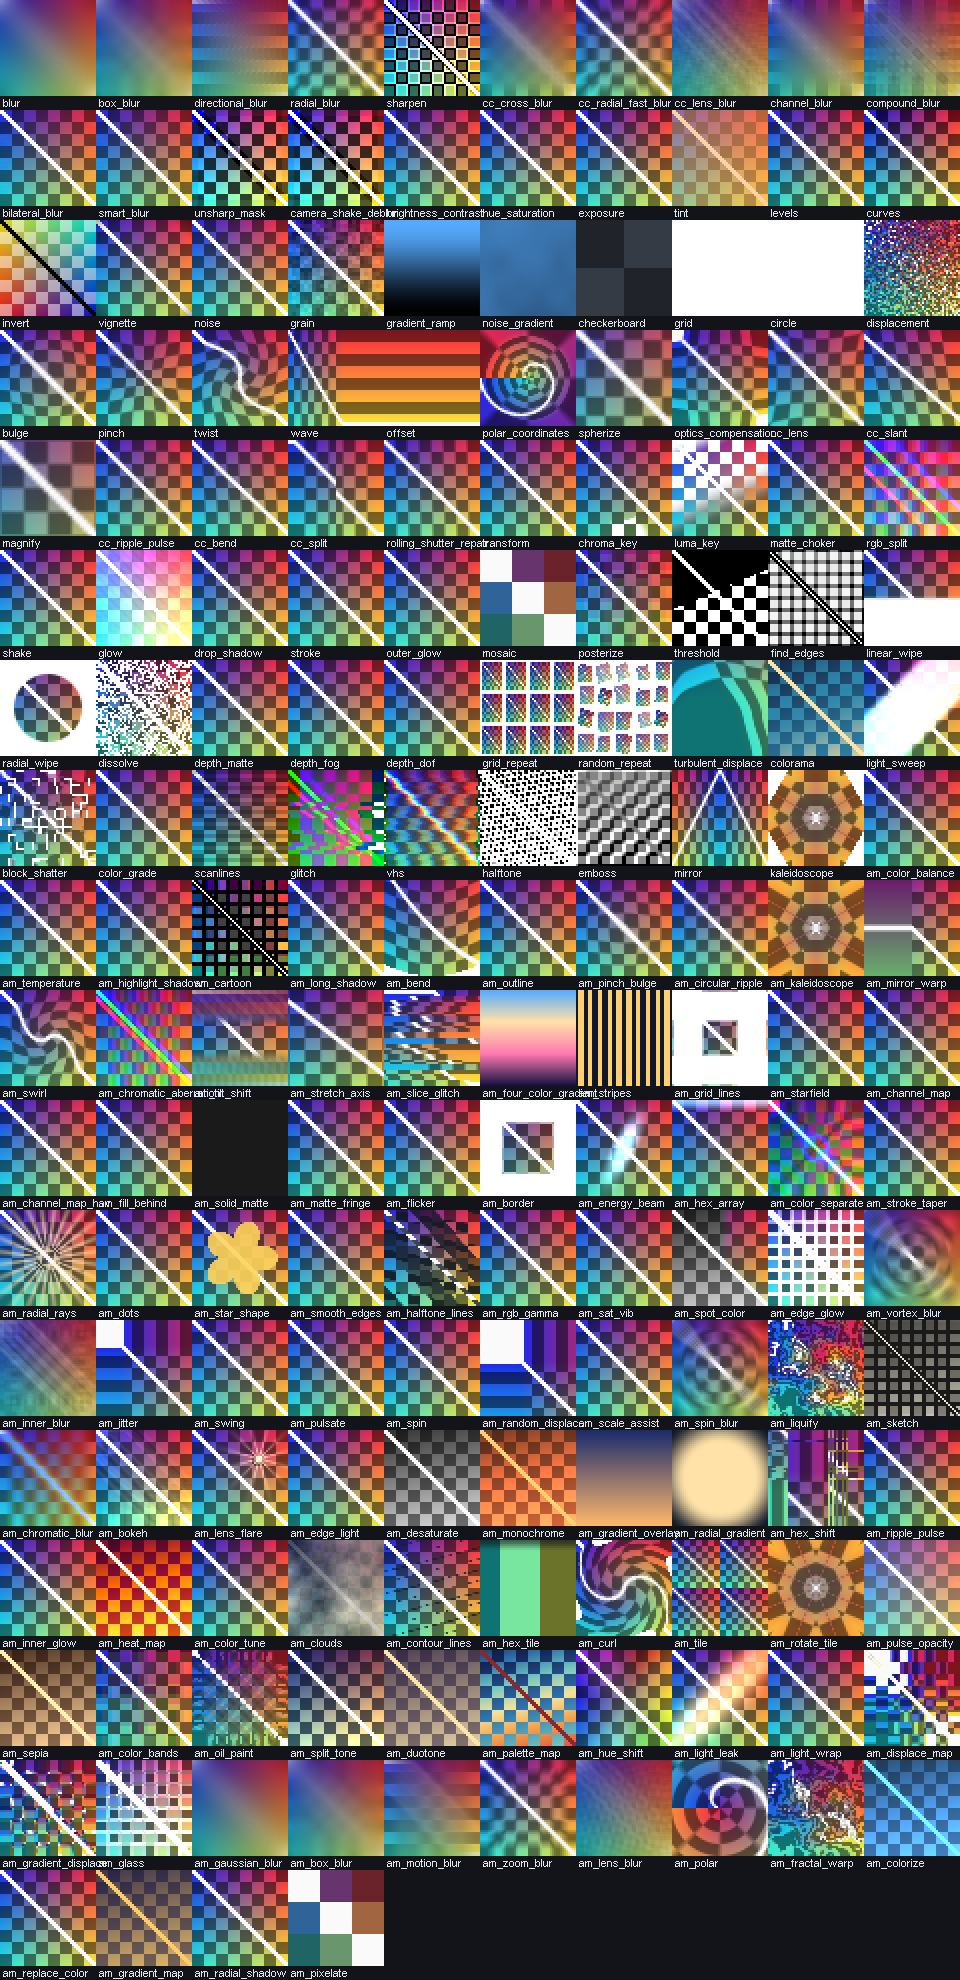
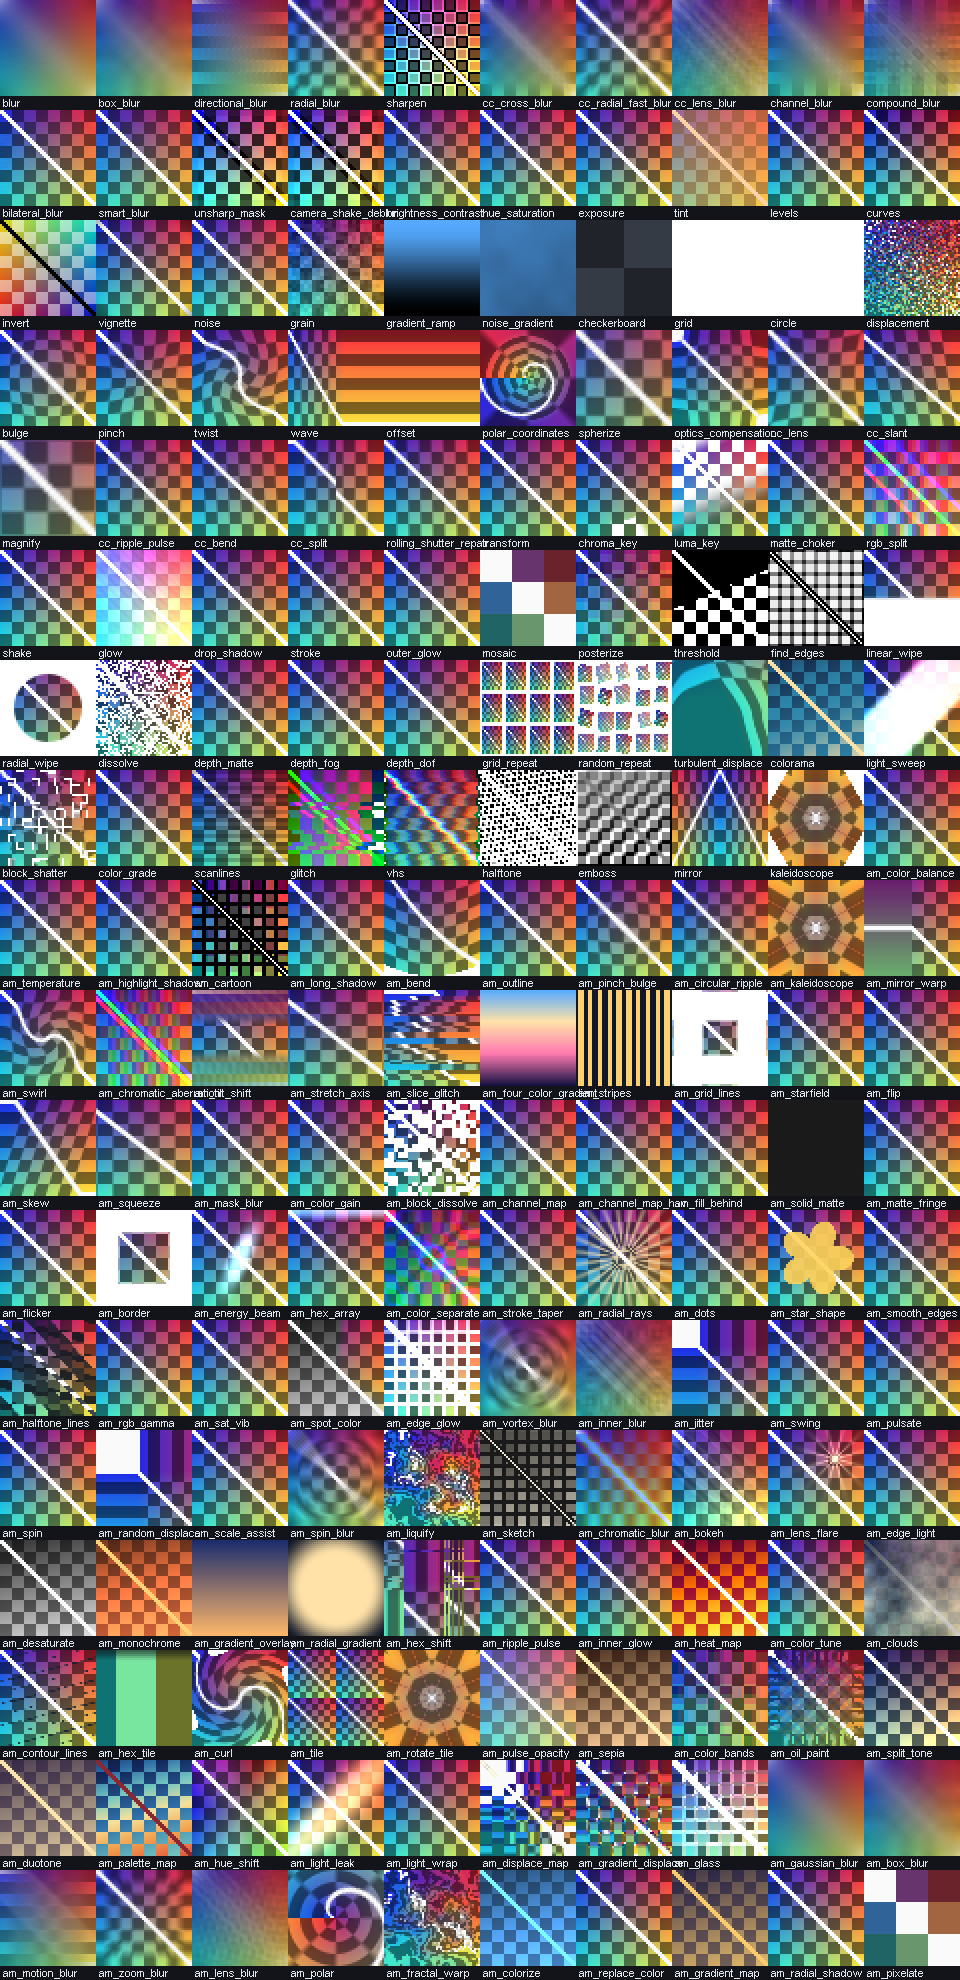
feat(0.47): past one hundred reference effects
- 翻转 (angle-driven flip with edge-on fade), 倾斜 (shear), 挤压 (axis squeeze) under AM · 变换.
- 遮罩模糊 (blur restricted to alpha edges) under AM · 模糊.
- 色调 (per-channel gain + lift) under AM · 调色.
- 块状溶解 (block dissolve; progress 1 = identity via neutralWhen) under AM · 透明度.
- 101 reference-compatible effects; the neutrality test probe now respects slider ranges so
  identities at the maximum (dissolve progress 1) are covered.
- 321 tests green. Release bbsae-0.47.jar
  (SHA-256 8A5DCE0F1025AB63D832CACA848CEAE2ECF3178FB08994B3C2A78C640DE2F993).

diff --git a/src/main/java/dev/bbsae/comp/AmEffectLibrary.java b/src/main/java/dev/bbsae/comp/AmEffectLibrary.java
@@ -495,6 +495,140 @@ public final class AmEffectLibrary
             .p("alpha", "不透明度", 0F, 1F, 1F, 0.01F)
             .p("seed", "随机种子", 0F, 9999F, 0F, 1F));
 
+        add(new AmEffectDef("am_flip", "翻转", "AM · 变换", """
+            void main()
+            {
+                vec2 luv = layerUv(vUv);
+                float a = radians(u_angle);
+                float fade = abs(cos(a));
+                vec2 uv = luv;
+
+                if (u_axis < 0.5)
+                {
+                    uv.x = 0.5 + (luv.x - 0.5) / max(fade, 0.0001);
+
+                    if (cos(a) < 0.0)
+                    {
+                        uv.x = 1.0 - uv.x;
+                    }
+                }
+                else
+                {
+                    uv.y = 0.5 + (luv.y - 0.5) / max(fade, 0.0001);
+
+                    if (cos(a) < 0.0)
+                    {
+                        uv.y = 1.0 - uv.y;
+                    }
+                }
+
+                vec2 inside = step(vec2(0.0), uv) * step(uv, vec2(1.0));
+                vec4 c = sampleLayer(clamp(uv, 0.0, 1.0));
+                fragColor = vec4(c.rgb, c.a * inside.x * inside.y);
+            }
+            """, 0.5F, "angle")
+            .p("angle", "角度", 0F, 360F, 0F, 1F)
+            .p("axis", "轴（0 X / 1 Y）", 0F, 1F, 0F, 1F));
+
+        add(new AmEffectDef("am_skew", "倾斜", "AM · 变形", """
+            void main()
+            {
+                vec2 luv = layerUv(vUv);
+                vec2 uv = luv;
+                uv.x += u_amount * (luv.y - u_center_y);
+                uv.y += u_vertical * (luv.x - u_center_x);
+                fragColor = sampleLayer(uv);
+            }
+            """, 0.5F, "amount")
+            .p("amount", "水平倾斜", -2F, 2F, 0.3F, 0.01F)
+            .p("vertical", "垂直倾斜", -2F, 2F, 0F, 0.01F)
+            .p("center_x", "中心 X", 0F, 1F, 0.5F, 0.01F)
+            .p("center_y", "中心 Y", 0F, 1F, 0.5F, 0.01F));
+
+        add(new AmEffectDef("am_squeeze", "挤压", "AM · 变形", """
+            void main()
+            {
+                vec2 luv = layerUv(vUv);
+                vec2 uv = luv;
+                float factor = max(1.0 + u_amount, 0.01);
+
+                if (u_axis < 0.5)
+                {
+                    uv.x = u_center_x + (luv.x - u_center_x) / factor;
+                }
+                else
+                {
+                    uv.y = u_center_y + (luv.y - u_center_y) / factor;
+                }
+
+                fragColor = sampleLayer(uv);
+            }
+            """, 0.5F, "amount")
+            .p("amount", "挤压量", -0.95F, 2F, 0.3F, 0.01F)
+            .p("axis", "轴（0 X / 1 Y）", 0F, 1F, 0F, 1F)
+            .p("center_x", "中心 X", 0F, 1F, 0.5F, 0.01F)
+            .p("center_y", "中心 Y", 0F, 1F, 0.5F, 0.01F));
+
+        add(new AmEffectDef("am_mask_blur", "遮罩模糊", "AM · 模糊", """
+            void main()
+            {
+                vec2 luv = layerUv(vUv);
+                vec4 c = sampleLayer(luv);
+                vec4 sum = vec4(0.0);
+
+                for (int i = 0; i < 16; i++)
+                {
+                    float a = float(i) * 0.3926991;
+                    float r = u_radius / max(LayerSize.x, 1.0);
+                    sum += sampleLayer(luv + vec2(cos(a), sin(a)) * r);
+                }
+
+                vec4 blurred = sum / 16.0;
+                float edge = clamp(4.0 * c.a * (1.0 - c.a), 0.0, 1.0);
+                fragColor = vec4(mix(c.rgb, blurred.rgb, edge * clamp(u_strength, 0.0, 1.0)), c.a);
+            }
+            """, 0F, "radius")
+            .p("radius", "半径（像素）", 0F, 60F, 6F, 0.5F)
+            .p("strength", "强度", 0F, 1F, 1F, 0.01F));
+
+        add(new AmEffectDef("am_color_gain", "色调", "AM · 调色", """
+            void main()
+            {
+                vec2 luv = layerUv(vUv);
+                vec4 c = sampleLayer(luv);
+                vec3 gained = c.rgb * vec3(max(u_gain_r, 0.0), max(u_gain_g, 0.0), max(u_gain_b, 0.0));
+                gained += vec3(u_lift);
+                fragColor = vec4(clamp(mix(c.rgb, gained, clamp(u_amount, 0.0, 1.0)), 0.0, 1.0), c.a);
+            }
+            """, 0F, null)
+            .neutralWhen((effect) ->
+                Math.abs(effect.valueF("gain_r", 1F) - 1F) <= 0.0001F
+                    && Math.abs(effect.valueF("gain_g", 1F) - 1F) <= 0.0001F
+                    && Math.abs(effect.valueF("gain_b", 1F) - 1F) <= 0.0001F
+                    && Math.abs(effect.valueF("lift", 0F)) <= 0.0001F)
+            .p("gain_r", "红增益", 0F, 3F, 1F, 0.01F)
+            .p("gain_g", "绿增益", 0F, 3F, 1F, 0.01F)
+            .p("gain_b", "蓝增益", 0F, 3F, 1F, 0.01F)
+            .p("lift", "提升", -0.5F, 0.5F, 0F, 0.01F)
+            .p("amount", "强度", 0F, 1F, 1F, 0.01F));
+
+        add(new AmEffectDef("am_block_dissolve", "块状溶解", "AM · 透明度", """
+            void main()
+            {
+                vec2 luv = layerUv(vUv);
+                vec4 c = sampleLayer(luv);
+                vec2 grid = vec2(max(u_blocks, 1.0));
+                vec2 cell = floor(luv * grid);
+                float rnd = hash(cell + u_seed);
+                float visible = rnd < clamp(u_progress, 0.0, 1.0) ? 1.0 : 0.0;
+                fragColor = vec4(c.rgb, c.a * visible);
+            }
+            """, 0F, null)
+            .neutralWhen((effect) -> effect.valueF("progress", 1F) >= 0.999F)
+            .p("progress", "进度", 0F, 1F, 0.5F, 0.01F)
+            .p("blocks", "方块数", 2F, 120F, 20F, 1F)
+            .p("seed", "随机种子", 0F, 9999F, 0F, 1F));
+
         add(new AmEffectDef("am_channel_map", "通道映射", "AM · 调色", """
             void main()
             {

diff --git a/src/test/java/dev/bbsae/comp/AmEffectLibraryTest.java b/src/test/java/dev/bbsae/comp/AmEffectLibraryTest.java
@@ -37,7 +37,7 @@ public class AmEffectLibraryTest
             assertTrue(definition.body.contains("fragColor"), "body writes no colour: " + definition.id);
         }
 
-        assertTrue(ids.size() >= 95, "the catalogue should have grown with the channel/composite batch");
+        assertTrue(ids.size() >= 101, "the catalogue should have crossed one hundred effects");
     }
 
     @Test
@@ -151,6 +151,12 @@ public class AmEffectLibraryTest
         assertNeutral("am_solid_matte", "amount", 0F);
         assertNeutral("am_matte_fringe", "width", 0F);
         assertNeutral("am_flicker", "amount", 0F);
+        assertNeutral("am_flip", "angle", 0F);
+        assertNeutral("am_skew", "amount", 0F);
+        assertNeutral("am_squeeze", "amount", 0F);
+        assertNeutral("am_mask_blur", "radius", 0F);
+        assertNeutral("am_color_gain", "gain_r", 1F);
+        assertNeutral("am_block_dissolve", "progress", 1F);
 
         CompEffect balance = CompEffectRegistry.create("am_color_balance", 1);
 
@@ -182,11 +188,27 @@ public class AmEffectLibraryTest
 
         assertTrue(AmEffectLibrary.isNeutral(effect), id + " must be an identity with " + key + " = 0");
 
-        /* Probe just past the identity: a value inside the parameter's allowed range that must
-         * change the image (0.5 is below the minimum size of the pixelate effect). */
-        effect.put(key, (double) (value + 1F));
+        /* Probe another value inside the parameter's allowed range that must change the image.
+         * Stepping up is preferred; identities at the maximum (a dissolve at progress 1) step down
+         * instead, and the probe never leaves the slider range. */
+        CompEffectRegistry.Definition definition = CompEffectRegistry.get(id);
+        float min = 0F;
+        float max = 1F;
+
+        for (CompEffectRegistry.Param param : definition.params)
+        {
+            if (param.key.equals(key))
+            {
+                min = param.min;
+                max = param.max;
+            }
+        }
+
+        float probe = value + 1F <= max ? value + 1F : Math.max(min, value - 0.5F);
+
+        effect.put(key, (double) probe);
 
         assertFalse(AmEffectLibrary.isNeutral(effect),
-            id + " must not be an identity with " + key + " = " + (value + 1F));
+            id + " must not be an identity with " + key + " = " + probe);
     }
 }

diff --git a/README.md b/README.md
@@ -110,15 +110,15 @@ export** without touching the `.dat` film format.
 
 ## Download / Install
 
-1. Download [`bbsae-0.46.jar`](https://github.com/zhongend/bbsae/releases/download/v0.46/bbsae-0.46.jar)
-   from the **v0.46** release (the asset is updated with each source push).
+1. Download [`bbsae-0.47.jar`](https://github.com/zhongend/bbsae/releases/download/v0.47/bbsae-0.47.jar)
+   from the **v0.47** release (the asset is updated with each source push).
 2. Install **Minecraft 1.20.1**, **Fabric Loader 0.16.14+**, **Fabric API 0.92.1+1.20.1** and
    **BBS FS 2.7-1.20.1**.
-3. Put `bbsae-0.46.jar` and the BBS FS jar into the game's `mods/` folder.
+3. Put `bbsae-0.47.jar` and the BBS FS jar into the game's `mods/` folder.
 4. Launch the game, open a film in BBS, select a replay, then use
    **Replay properties → Compositor → Open Film Compositor**.
 
[2 lines of base64/hex data omitted]
 
 ## Gallery
 
@@ -185,6 +185,17 @@ The compositor does not re-encode films or patch `.dat` files. BBS serializes a 
 `RegisterFrameOverlaysEvent` point. That means the same composition appears in BBS's preview and in
 its FFmpeg film export, and BBS keeps ownership of keyframes, undo, project storage and video
 encoding.
+
+## What's new in 0.47 — past one hundred reference effects
+
+- **翻转**, **倾斜**, **挤压** (`AM · 变换`): angle-driven flip, shear and axis squeeze.
+- **遮罩模糊** (`AM · 模糊`): blur restricted to alpha edges.
+- **色调** (`AM · 调色`): per-channel gain plus lift.
+- **块状溶解** (`AM · 透明度`): block-wise dissolve; progress 1 is the identity and is declared
+  through `neutralWhen`.
+- **101 reference-compatible effects**; the neutrality test probe now respects each slider's range
+  (identities at the maximum, like a dissolve at progress 1, step down instead of up).
+- 321 tests green.
 
 ## What's new in 0.46 — channel maps and matte composites
 

diff --git a/docs/EFFECT-LIBRARY-PLAN.zh.md b/docs/EFFECT-LIBRARY-PLAN.zh.md
@@ -45,7 +45,7 @@
 新增三层，效果不再需要写进 `EffectRenderer` 的巨型 switch：
 
 - `comp/AmEffectDef`：id、显示名、分类、参数表（float/color）、`main()` 片段、零点参数。
-- `comp/AmEffectLibrary`：95 个效果的定义（色彩平衡、色温、高光与阴影、卡通、长阴影、
+- `comp/AmEffectLibrary`：101 个效果的定义（色彩平衡、色温、高光与阴影、卡通、长阴影、
   弯曲、描边、收缩与膨胀、圆形波纹、万花筒、镜像、旋转扭曲、像素化、极坐标、分形扭曲、
   色彩化、替换颜色、渐变映射、径向阴影），参数名/范围/默认值与参考应用一致。
 - `client/render/AmEffectRenderer`：按定义拼装完整 fragment（标准 uniform + 参数 uniform +
@@ -177,6 +177,7 @@ switch 中拆出来：
 4.24 **程序化/绘制批**（径向光线、点阵、星形、平滑边缘、半调线；已完成）
 4.25 **边框/光束/阵列批**（边框、能量束、六边形阵列、彩色分离、描边锥度；已完成）
 4.26 **通道/合成批**（通道映射、HSV 通道映射、填充背后、实色遮罩、遮罩边缘、闪烁；已完成）
+4.27 **变换/溶解批**（翻转、倾斜、挤压、遮罩模糊、色调、块状溶解；已完成）——复刻效果突破 100
     - 时间驱动效果使用 `Time`（合成时间），暂停/导出时行为一致；
     - 缩放辅助使用 `neutralWhen` 在 X/Y 缩放都为 1 时判定为原图。
 4.20 **图层空间适配（第一性原理修正）**
